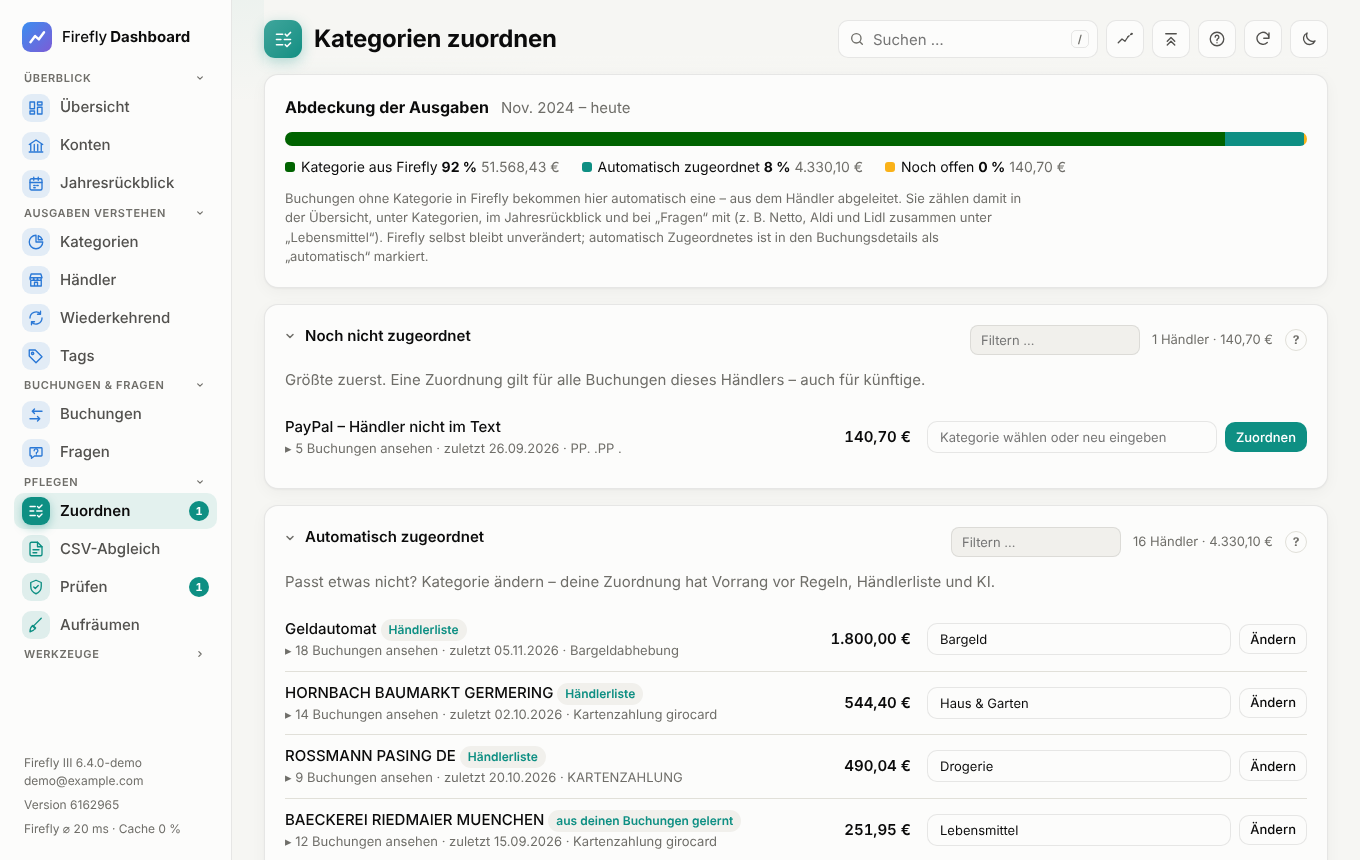
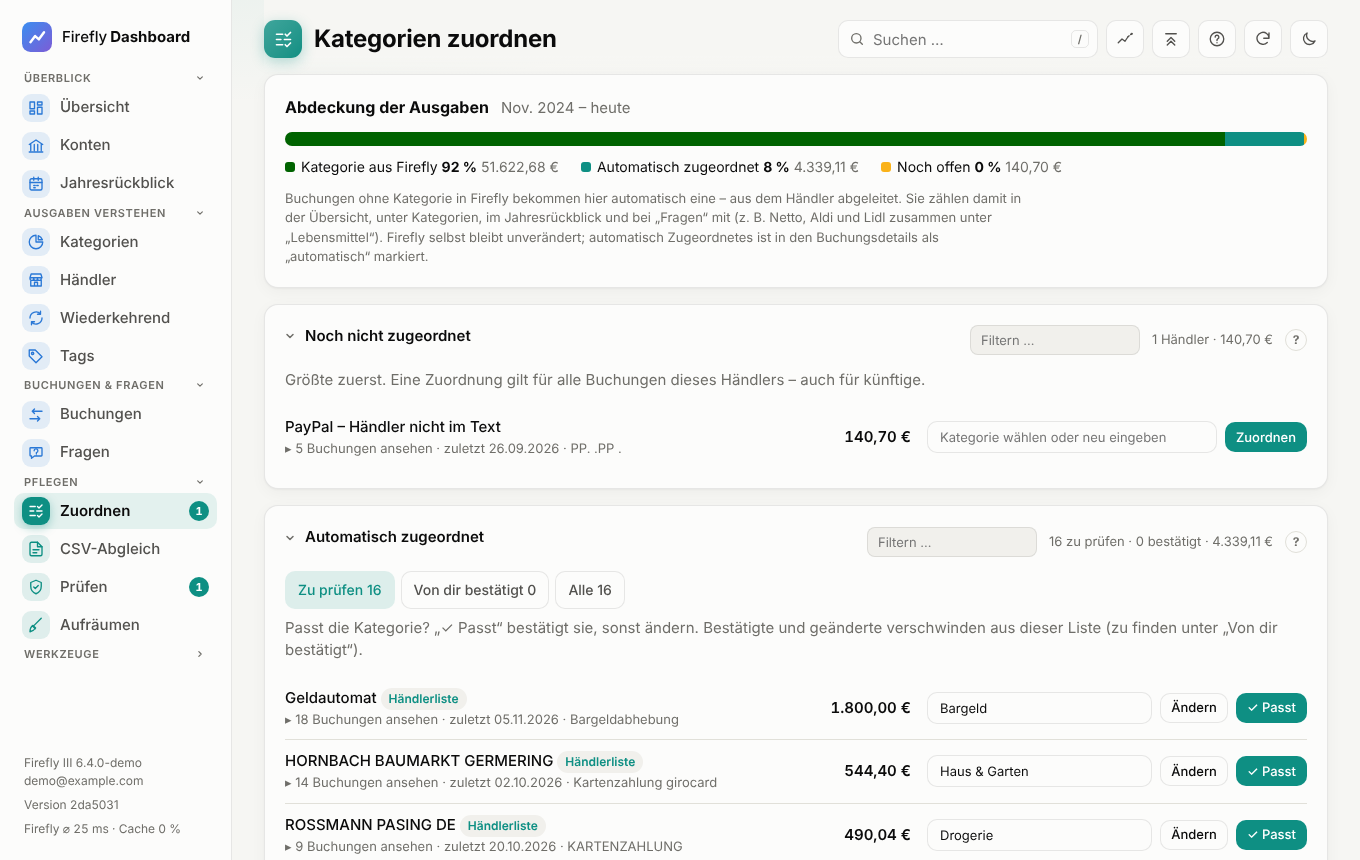
Erledigtes ausblenden: Zuordnen „Zu prüfen“, Vorschläge schrumpfen
- Automatisch zugeordnet: standardmäßig nur ungeprüfte Händler; „✓ Passt“
  bestätigt, Bestätigte/Geänderte unter „Von dir bestätigt“ (gilt auch für
  schon früher geänderte), Status „nur Dashboard“ / „in Firefly“ und Hinweis
  auf die Vormerkung unter „In Firefly übernehmen“
- In Firefly übernehmen: nachträglich bestätigte/geänderte Händler werden
  ebenfalls vorgemerkt (angehakt)
- Vorschläge zum Kategorisieren: gesetzte Buchungen verschwinden, Zähler
  „noch N offen“
- Hilfe, README und Screenshot Zuordnen aktualisiert

Claude-Session: https://claude.ai/code/session_017CCe4q4F121UhA8tHqTQzy

diff --git a/public/js/zuordnen.js b/public/js/zuordnen.js
@@ -8,7 +8,7 @@ import { money, esc, fmtDate, percent } from './util.js';
 import { card, skeleton, txAttrs, bindTxDetails, signedAmount } from './common.js';
 import { actionFor, runAction, setCategory } from './txedit.js';
 import { toFireflyRules } from './rules.js';
-import { isoDate, today } from './util.js';
+import { isoDate, today, storage, store } from './util.js';
 
 const FF_GROUP = 'Dashboard: Händler → Kategorie (Zuordnen)';
 /** Kurze, feste Kennung je Händler für die Regel-Markierung („id:…“ ohne Leerzeichen). */
@@ -40,12 +40,14 @@ export async function assignPage(view) {
   let rulesAction = null;
   let editAction = null;
   let ffPick = null; // ausgewählte Händler (Schlüssel) – beim ersten Laden vorbelegt
+  const ffSeen = new Map(); // Händler → Stand bei der letzten Vorbelegung
   let ffRange = 'all';
   let ffNote = '';
   let ffBusy = '';
   let data;
   let shownOpen = 40;
   let shownAuto = 40;
+  let autoFilter = storage('ffd-z-auto', 'pruefen'); // pruefen | fest | alle
   const openKeys = new Set(); // aufgeklappte Händler (Buchungen sichtbar)
   const bookings = new Map(); // Händler → { anzahl, buchungen } | 'laden' | Fehlertext
 
@@ -57,7 +59,16 @@ export async function assignPage(view) {
   const ffCandidates = () => data.automatisch.filter((m) => m.cond && m.category && m.quelle !== 'buchung');
   function renderFirefly() {
     const cands = ffCandidates();
-    if (!ffPick) ffPick = new Set(cands.filter((m) => !UP_TO_DATE(m) && ['zuordnung', 'import', 'liste', 'gelernt'].includes(m.quelle)).map((m) => m.key));
+    // Vorbelegung: nicht aktuelle Zuordnungen aus verlässlichen Quellen. Neu bestätigte/geänderte Händler
+    // (Stand je Händler geändert) werden auch nachträglich angehakt.
+    ffPick ||= new Set();
+    for (const m of cands) {
+      const sig = `${m.quelle}|${m.category}|${m.ff?.sentAt || ''}`;
+      if (ffSeen.get(m.key) === sig) continue;
+      ffSeen.set(m.key, sig);
+      if (!UP_TO_DATE(m) && ['zuordnung', 'import', 'liste', 'gelernt'].includes(m.quelle)) ffPick.add(m.key);
+      else ffPick.delete(m.key);
+    }
     const keys = new Set(cands.map((m) => m.key));
     const elsewhere = data.firefly.filter((f) => !keys.has(f.key)); // übertragen – Firefly hat die Buchungen inzwischen kategorisiert
     const sent = data.firefly.filter((f) => f.sentAt).length;
@@ -201,18 +212,35 @@ export async function assignPage(view) {
       ${data.offen.length > shownOpen ? `<button class="btn" id="z-open-more" style="margin-top:12px">Weitere ${Math.min(40, data.offen.length - shownOpen)} zeigen</button>` : ''}`
       : '<div class="empty">Alle Ausgaben der letzten 24 Monate haben eine Kategorie. 🎉</div>';
 
-    // ---- automatisch ----
-    $('z-auto-meta').textContent = data.automatisch.length ? `${data.automatisch.length} Händler · ${money(s.automatisch, code)}` : '';
+    // ---- automatisch: standardmäßig nur, was du noch nicht bestätigt oder geändert hast ----
+    const todo = data.automatisch.filter((m) => !m.fest);
+    const fest = data.automatisch.filter((m) => m.fest);
+    const autoList = autoFilter === 'fest' ? fest : autoFilter === 'alle' ? data.automatisch : todo;
+    const onlyHere = fest.filter((m) => m.cond && m.category && !UP_TO_DATE(m));
+    const ffState = (m) => (!m.cond ? '' : UP_TO_DATE(m) ? '<span class="badge good" title="Als Regel in Firefly">in Firefly</span>'
+      : m.ff?.sentAt ? '<span class="badge warn" title="In Firefly steht noch eine andere Kategorie">Firefly: geändert</span>'
+      : m.fest ? '<span class="badge" title="Gilt bisher nur im Dashboard – vorgemerkt unter „In Firefly übernehmen“">nur Dashboard</span>' : '');
+    $('z-auto-meta').textContent = data.automatisch.length ? `${todo.length} zu prüfen · ${fest.length} bestätigt · ${money(s.automatisch, code)}` : '';
     $('z-auto').innerHTML = data.automatisch.length ? `
-      <p class="muted" style="margin-top:0">Passt etwas nicht? Kategorie ändern – deine Zuordnung hat Vorrang vor Regeln, Händlerliste und KI.</p>
-      <div class="list z-list">${data.automatisch.slice(0, shownAuto).map((m) => `<div class="row z-row" data-key="${esc(m.key)}">
-        <div style="min-width:0"><div class="title">${esc(m.name)} ${quelle(m.quelle)}</div>
+      <div class="chips z-auto-filter" role="group" aria-label="Anzeigen">
+        <button type="button" class="chip" data-auto-filter="pruefen" aria-pressed="${autoFilter === 'pruefen'}">Zu prüfen ${todo.length}</button>
+        <button type="button" class="chip" data-auto-filter="fest" aria-pressed="${autoFilter === 'fest'}">Von dir bestätigt ${fest.length}</button>
+        <button type="button" class="chip" data-auto-filter="alle" aria-pressed="${autoFilter === 'alle'}">Alle ${data.automatisch.length}</button>
+      </div>
+      <p class="muted" style="margin-top:8px">${autoFilter === 'fest'
+    ? 'Deine Zuordnungen – sie haben Vorrang vor Regeln, Händlerliste und KI.'
+    : 'Passt die Kategorie? „✓ Passt“ bestätigt sie, sonst ändern. Bestätigte und geänderte verschwinden aus dieser Liste (zu finden unter „Von dir bestätigt“).'}</p>
+      ${onlyHere.length ? `<p class="z-ff-hint">${onlyHere.length === 1 ? 'Eine deiner Zuordnungen gilt' : `${onlyHere.length} deiner Zuordnungen gelten`} bisher nur im Dashboard – für Firefly vorgemerkt (angehakt) unter <button type="button" class="link-btn" data-goto-ff>In Firefly übernehmen ↓</button></p>` : ''}
+      ${autoList.length ? `<div class="list z-list">${autoList.slice(0, shownAuto).map((m) => `<div class="row z-row" data-key="${esc(m.key)}">
+        <div style="min-width:0"><div class="title">${esc(m.name)} ${quelle(m.quelle)} ${ffState(m)}</div>
           <div class="subtitle"><button class="link-btn z-show" type="button" data-show="${esc(m.key)}" aria-expanded="${openKeys.has(m.key)}">${openKeys.has(m.key) ? '▾' : '▸'} ${m.n} Buchung${m.n === 1 ? '' : 'en'} ansehen</button> · zuletzt ${fmtDate(m.last)}${m.beispiel ? ` · ${esc(m.beispiel)}` : ''}</div></div>
         <div class="amount">${money(m.auto, code)}</div>
         ${m.key ? `<form class="z-form" data-assign="${esc(m.key)}" data-name="${esc(m.name)}">${catInput(m.category, 'name="category" required')}<button class="btn small" type="submit">Ändern</button>
+          ${!m.fest && m.category ? `<button class="btn small primary" type="button" data-ok="${esc(m.key)}" data-name="${esc(m.name)}" data-category="${esc(m.category)}" title="Kategorie bestätigen – gilt dann als deine Zuordnung">✓ Passt</button>` : ''}
           ${m.fest ? `<button class="link-btn" type="button" data-reset="${esc(m.key)}" title="Deine Zuordnung entfernen – dann gelten wieder Regeln, Händlerliste und KI">zurücksetzen</button>` : ''}</form>` : '<div class="z-form"></div>'}
       </div>${txBlock(m.key)}`).join('')}</div>
-      ${data.automatisch.length > shownAuto ? `<button class="btn" id="z-auto-more" style="margin-top:12px">Weitere ${Math.min(40, data.automatisch.length - shownAuto)} zeigen</button>` : ''}`
+      ${autoList.length > shownAuto ? `<button class="btn" id="z-auto-more" style="margin-top:12px">Weitere ${Math.min(40, autoList.length - shownAuto)} zeigen</button>` : ''}`
+    : `<div class="empty">${autoFilter === 'pruefen' ? 'Alles geprüft. 🎉' : 'Noch nichts bestätigt.'}</div>`}`
       : '<div class="empty">Noch nichts automatisch zugeordnet.</div>';
 
     // Buchungszeilen aufklappbar (Details, „In Firefly öffnen“, Ausblenden)
@@ -295,6 +323,17 @@ export async function assignPage(view) {
     const t = e.target.closest('button');
     if (!t) return;
     if (t.dataset.reset) return update(call('POST', { key: t.dataset.reset, category: null }));
+    if (t.dataset.ok) {
+      t.disabled = true;
+      return update(call('POST', { key: t.dataset.ok, name: t.dataset.name, category: t.dataset.category }));
+    }
+    if (t.dataset.autoFilter) {
+      autoFilter = t.dataset.autoFilter;
+      store('ffd-z-auto', autoFilter);
+      shownAuto = 40;
+      return render();
+    }
+    if (t.dataset.gotoFf !== undefined) return $('z-ff').closest('.card').scrollIntoView({ behavior: 'smooth', block: 'start' });
     if (t.id === 'z-ff-send') {
       const list = ffCandidates().filter((m) => ffPick.has(m.key));
       if (!list.length || !window.confirm(`${list.length} Regel${list.length === 1 ? '' : 'n'} „Händler → Kategorie“ in Firefly anlegen${ffRange === 'none' ? '' : ' und auf vorhandene Ausgaben ohne Kategorie anwenden'}?`)) return;

diff --git a/public/js/help.js b/public/js/help.js
@@ -239,7 +239,7 @@ export const CARDS = {
   'm-needs': { title: 'Sparpotenzial', what: 'Wie sich die Ausgaben je Monat auf notwendig, sinnvoll und verzichtbar verteilen.', app: 'Nutzt die KI-Bewertung je Händler aus dem Labor (Reiter „KI“); abgelehnte Bewertungen zählen nicht.', firefly: READ_ONLY },
   // Zuordnen
   'z-open': { title: 'Noch nicht zugeordnet', what: 'Händler, deren Ausgaben weder in Firefly noch automatisch eine Kategorie haben – nach Betrag sortiert.', app: 'Kategorie eintippen oder wählen und „Zuordnen“ – gilt für alle Buchungen des Händlers, auch künftige. „Buchungen ansehen“ zeigt die einzelnen Buchungen; „nur diese“ ordnet eine einzelne zu.', firefly: 'Nichts (nur im Dashboard) – nach Firefly über „In Firefly übernehmen“.' },
-  'z-auto': { title: 'Automatisch zugeordnet', what: 'Händler, deren Ausgaben das Dashboard automatisch einer Kategorie zuordnet, mit der Quelle (deine Zuordnung, Regel, Import-Zuordnung, gelernt, Händlerliste, KI).', app: '„Ändern“ setzt eine eigene Zuordnung, die vor allen anderen Quellen gilt; „zurücksetzen“ nimmt sie zurück. „Buchungen ansehen“ zeigt jede Buchung mit Herkunft ihrer Kategorie.', firefly: 'Nichts (nur im Dashboard).' },
+  'z-auto': { title: 'Automatisch zugeordnet', what: 'Händler, deren Ausgaben das Dashboard automatisch einer Kategorie zuordnet, mit der Quelle (deine Zuordnung, Regel, Import-Zuordnung, gelernt, Händlerliste, KI).', app: 'Standardmäßig stehen nur Händler da, die du noch nicht geprüft hast. „✓ Passt“ bestätigt die Kategorie, „Ändern“ setzt eine andere – beides wird deine Zuordnung (gilt vor allen anderen Quellen) und verschwindet aus „Zu prüfen“; zu finden unter „Von dir bestätigt“, dort „zurücksetzen“. „Buchungen ansehen“ zeigt jede Buchung mit Herkunft ihrer Kategorie.', firefly: 'Bestätigen und Ändern wirken zunächst nur im Dashboard („nur Dashboard“). Für Firefly sind deine Zuordnungen unter „In Firefly übernehmen“ vorgemerkt (angehakt) – erst dort übertragen, dann als Regel in Firefly („in Firefly“).' },
   'z-ff': { title: 'In Firefly übernehmen', what: 'Macht aus Zuordnungen Firefly-Regeln „Händler → Kategorie“, damit Firefly die Kategorie schon beim Import setzt.', app: 'Händler ankreuzen (KI-Zuordnungen sind anfangs nicht angehakt), Zeitraum fürs rückwirkende Anwenden wählen, übertragen. Übertragene sind mit „in Firefly“ markiert, später geänderte mit „geändert“.', firefly: 'Regeln in der Gruppe „Dashboard: Händler → Kategorie (Zuordnen)“ (Automation „Firefly-Regeln anlegen“) – nur für Ausgaben ohne Kategorie, vorhandene Kategorien bleiben. Einzeln zugeordnete Buchungen setzt die Automation „Kategorie übernehmen“ direkt. ' + VIA_N8N, tips: ['„Regel entfernen“ löscht die Regel in Firefly; schon gesetzte Kategorien bleiben.'] },
   'z-set': { title: 'Einstellungen', what: 'Woraus die automatischen Kategorien abgeleitet werden und wie viel Geld jede Quelle zuordnet.', app: 'Lernen, Händlerliste und KI lassen sich einzeln abschalten; für die KI gilt eine Mindest-Sicherheit. Die Selbstprüfung vergleicht die vom Dashboard gerechneten Summen mit Firefly.', firefly: 'Nichts.' },
   // Wiederkehrend

diff --git a/public/js/categories.js b/public/js/categories.js
@@ -778,12 +778,13 @@ async function detail(view, { period, params, id, dimKey }) {
             if (!res.ok) continue;
             ok += 1;
             done.add(i);
-            const tr = el.querySelector(`tr[data-row="${i}"]`);
-            tr?.classList.add('sug-done');
-            const cell = tr?.querySelector('.sug-form');
-            if (cell) cell.outerHTML = `<span class="badge good">✓ ${esc(label)}</span>`;
+            // erledigte Buchung verschwindet – so sieht man, dass es weniger werden
+            el.querySelector(`tr[data-row="${i}"]`)?.remove();
           } catch { /* nächste Buchung */ }
         }
+        const left = suggestions.length - done.size;
+        $('d-suggest-meta').textContent = left ? `noch ${left} offen · ${done.size} erledigt` : `${done.size} erledigt`;
+        if (!left) el.querySelector('.table-wrap').outerHTML = `<div class="empty">Alle ${done.size} kategorisiert. 🎉 Firefly übernimmt die Änderungen gleich – die Seite zeigt sie beim nächsten Laden.</div>`;
         if (ok < rows.length) {
           btn.disabled = false;
           btn.textContent = ok ? `${ok}/${rows.length} – nochmal` : 'Fehler – nochmal';

diff --git a/public/styles.css b/public/styles.css
@@ -1554,3 +1554,7 @@ button.nav-group svg { width: 14px; height: 14px; fill: none; stroke: currentCol
   .suggest-table .suggest-actions { grid-column: 1 / -1; min-width: 0; }
 }
 .combo-new.end { border-bottom: 0; border-top: 1px solid var(--grid); margin: 2px 0 0; font-size: 13px; color: var(--text-muted); }
+.z-auto-filter { margin-bottom: 4px; }
+.z-ff-hint { margin: 0 0 12px; padding: 8px 12px; border-radius: 8px; background: var(--accent-soft); font-size: 14px; }
+.z-ff-hint .link-btn { font-size: inherit; color: var(--accent); font-weight: 600; }
+.z-form .btn { white-space: nowrap; flex-shrink: 0; }

diff --git a/public/sw.js b/public/sw.js
@@ -1,7 +1,7 @@
 // Service Worker: App sofort starten (auch offline) und zuletzt geladene
 // Daten zeigen, wenn der Server nicht erreichbar ist.
 
-const VERSION = 'ffd-64';
+const VERSION = 'ffd-65';
 const SHELL = `${VERSION}-shell`;
 const DATA = `${VERSION}-data`;
 const MAX_DATA_ENTRIES = 400;

diff --git a/README.md b/README.md
@@ -185,7 +185,9 @@ als frischere Alternative zur Standardoberfläche, wenn du deine Finanzen einfac
   Konfiguration) → gelernt aus deinen schon kategorisierten Buchungen → eingebaute Händlerliste
   (Aldi, Rewe, Shell, Telekom …) → KI-Bewertung. Kategorien aus Firefly (z. B. beim Import gesetzt)
   bleiben immer, wie sie sind. Die Seite zeigt die Abdeckung (Kategorie aus Firefly / automatisch /
-  offen), die offenen Händler nach Betrag und alle automatischen Zuordnungen zum Korrigieren; eine
+  offen), die offenen Händler nach Betrag und die automatischen Zuordnungen zum Prüfen – standardmäßig
+  nur, was du noch nicht bestätigt („✓ Passt“) oder geändert hast, so wird die Liste kürzer
+  (Bestätigtes unter „Von dir bestätigt“, mit Status „nur Dashboard“ / „in Firefly“); eine
   Zuordnung gilt für alle Buchungen des Händlers, auch künftige. „Buchungen ansehen“ klappt die
   einzelnen Buchungen eines Händlers auf (mit Herkunft der Kategorie und allen Details); einzelne
   lassen sich dort abweichend zuordnen („nur diese“). **PayPal & Co.:** Steht im Buchungstext, bei
@@ -197,7 +199,8 @@ als frischere Alternative zur Standardoberfläche, wenn du deine Finanzen einfac
   Firefly die Kategorie künftig schon beim Import. Einzeln zugeordnete Buchungen setzt das Dashboard
   per Automation „Kategorie übernehmen“ direkt in Firefly. Wirkt in Übersicht, Kategorien,
   Jahresrückblick, Händler, Fragen, Berichten und MQTT; in den Buchungsdetails steht
-  „automatisch“. Firefly bleibt unverändert (Zuordnungen in `DATA_DIR/autocat.json`)
+  „automatisch“. Bis zum Übertragen bleibt Firefly unverändert (Zuordnungen in `DATA_DIR/autocat.json`;
+  deine Zuordnungen sind für „In Firefly übernehmen“ vorgemerkt)
 - **Prüfen** – Datenqualität auf einen Blick:
   - **Import-Status je Konto**: letzte Buchung und üblicher Abstand; „überfällig“, wenn ein Konto
     deutlich länger als sonst keine Buchung hat (CSV-Import vergessen?). Eine Automation mit
